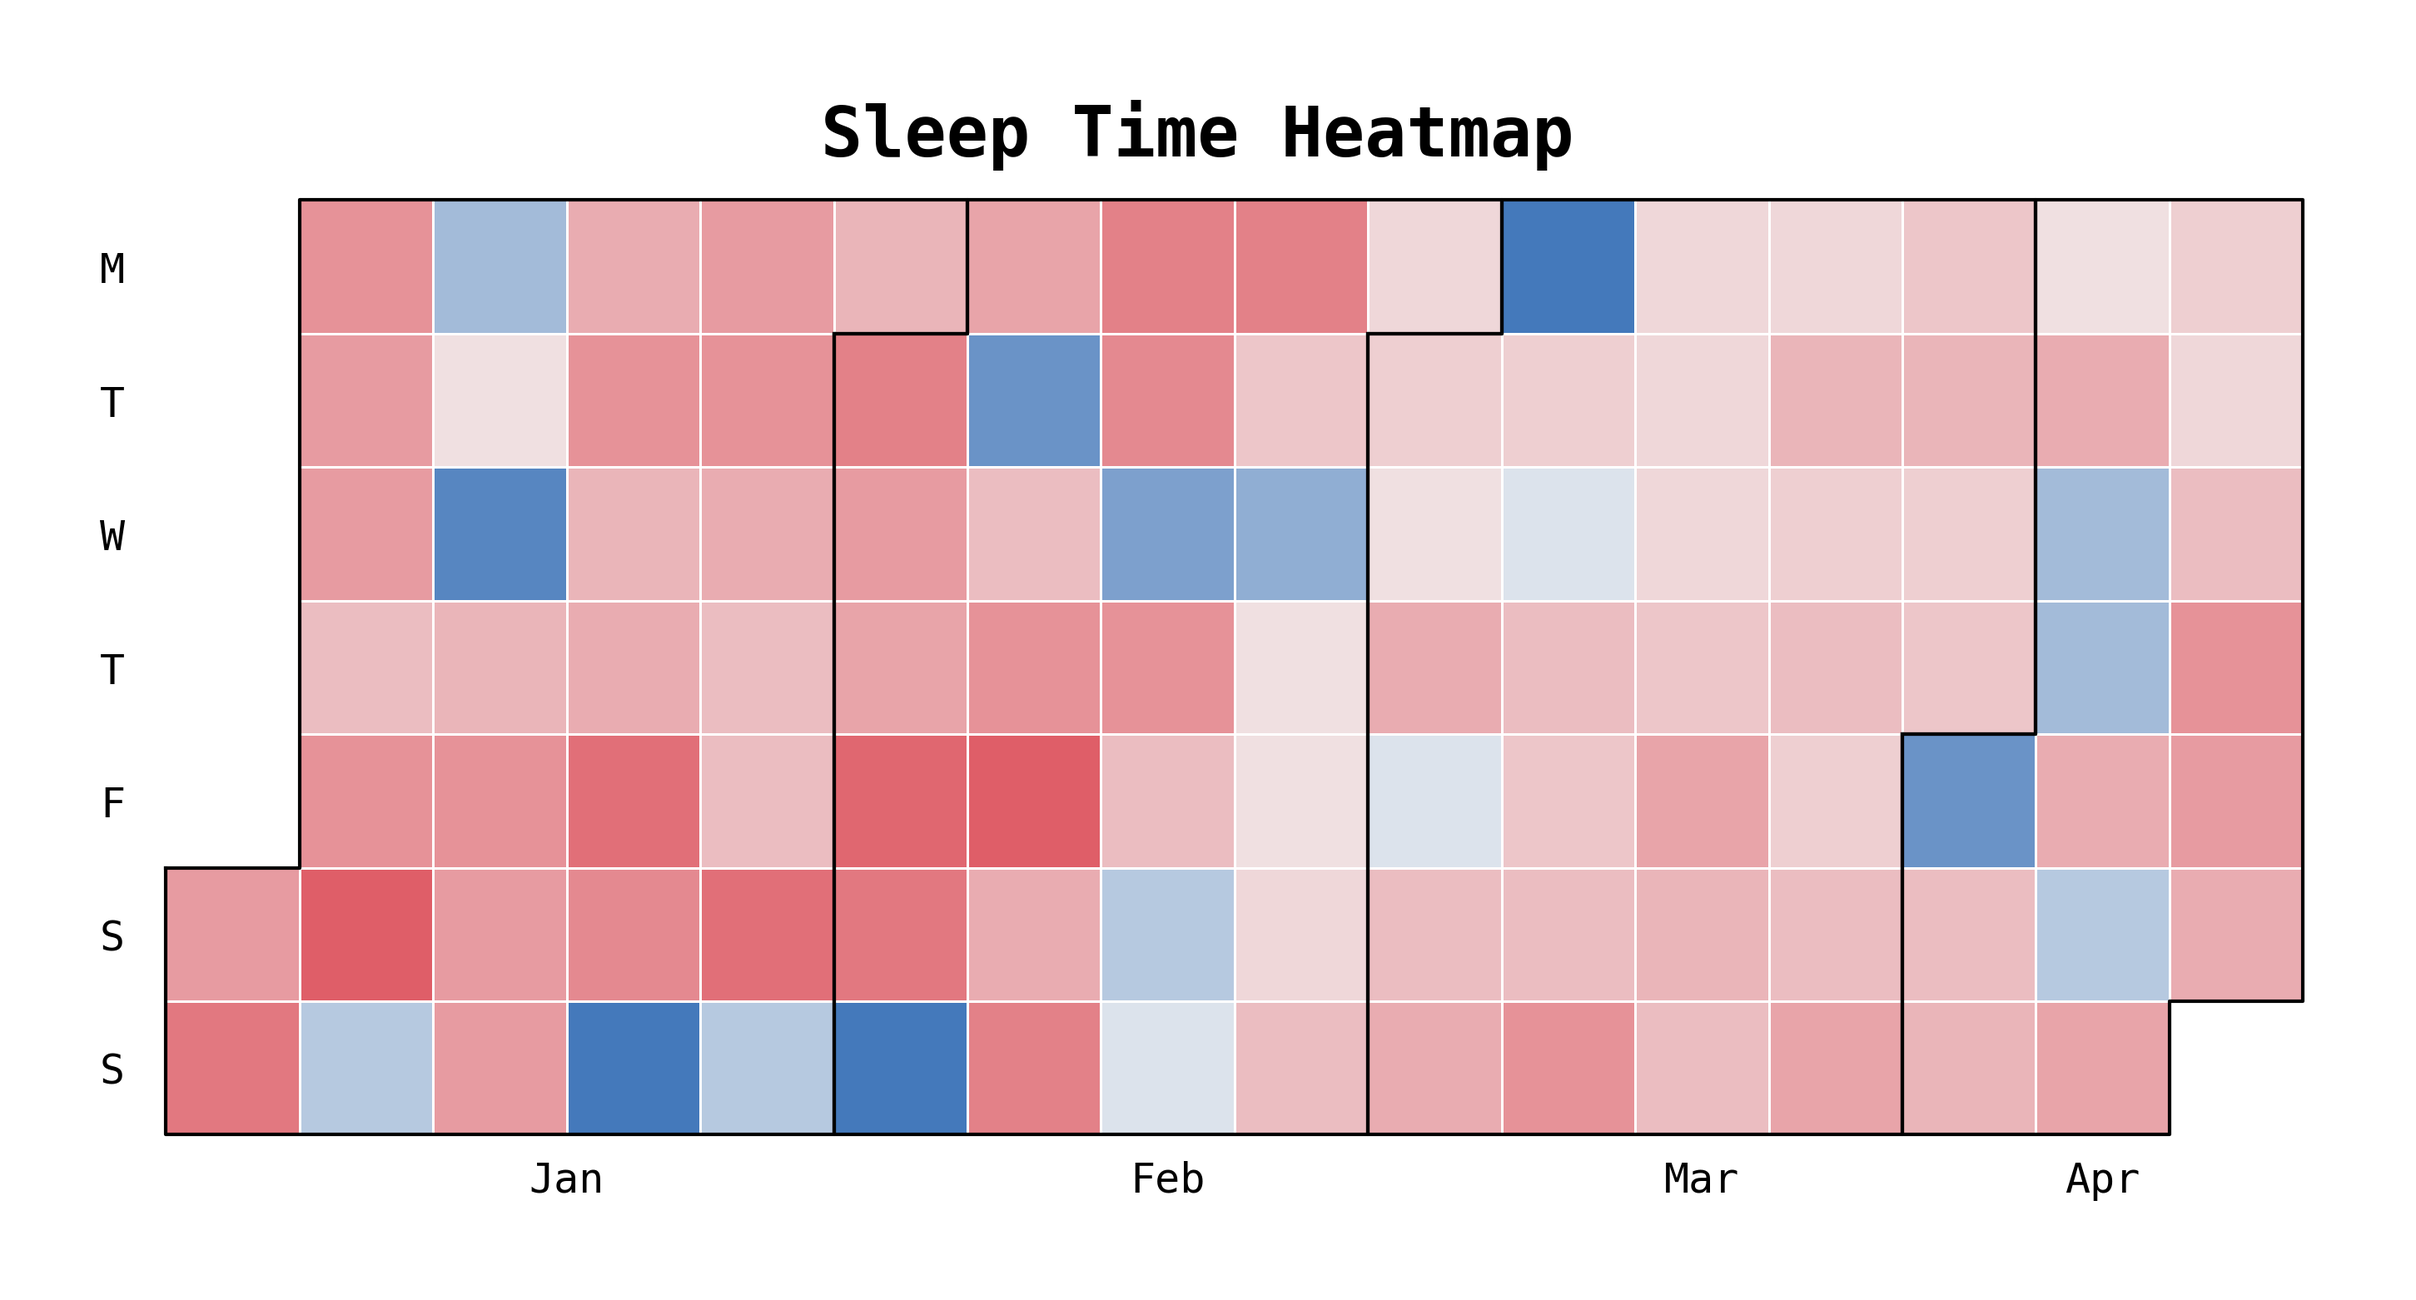
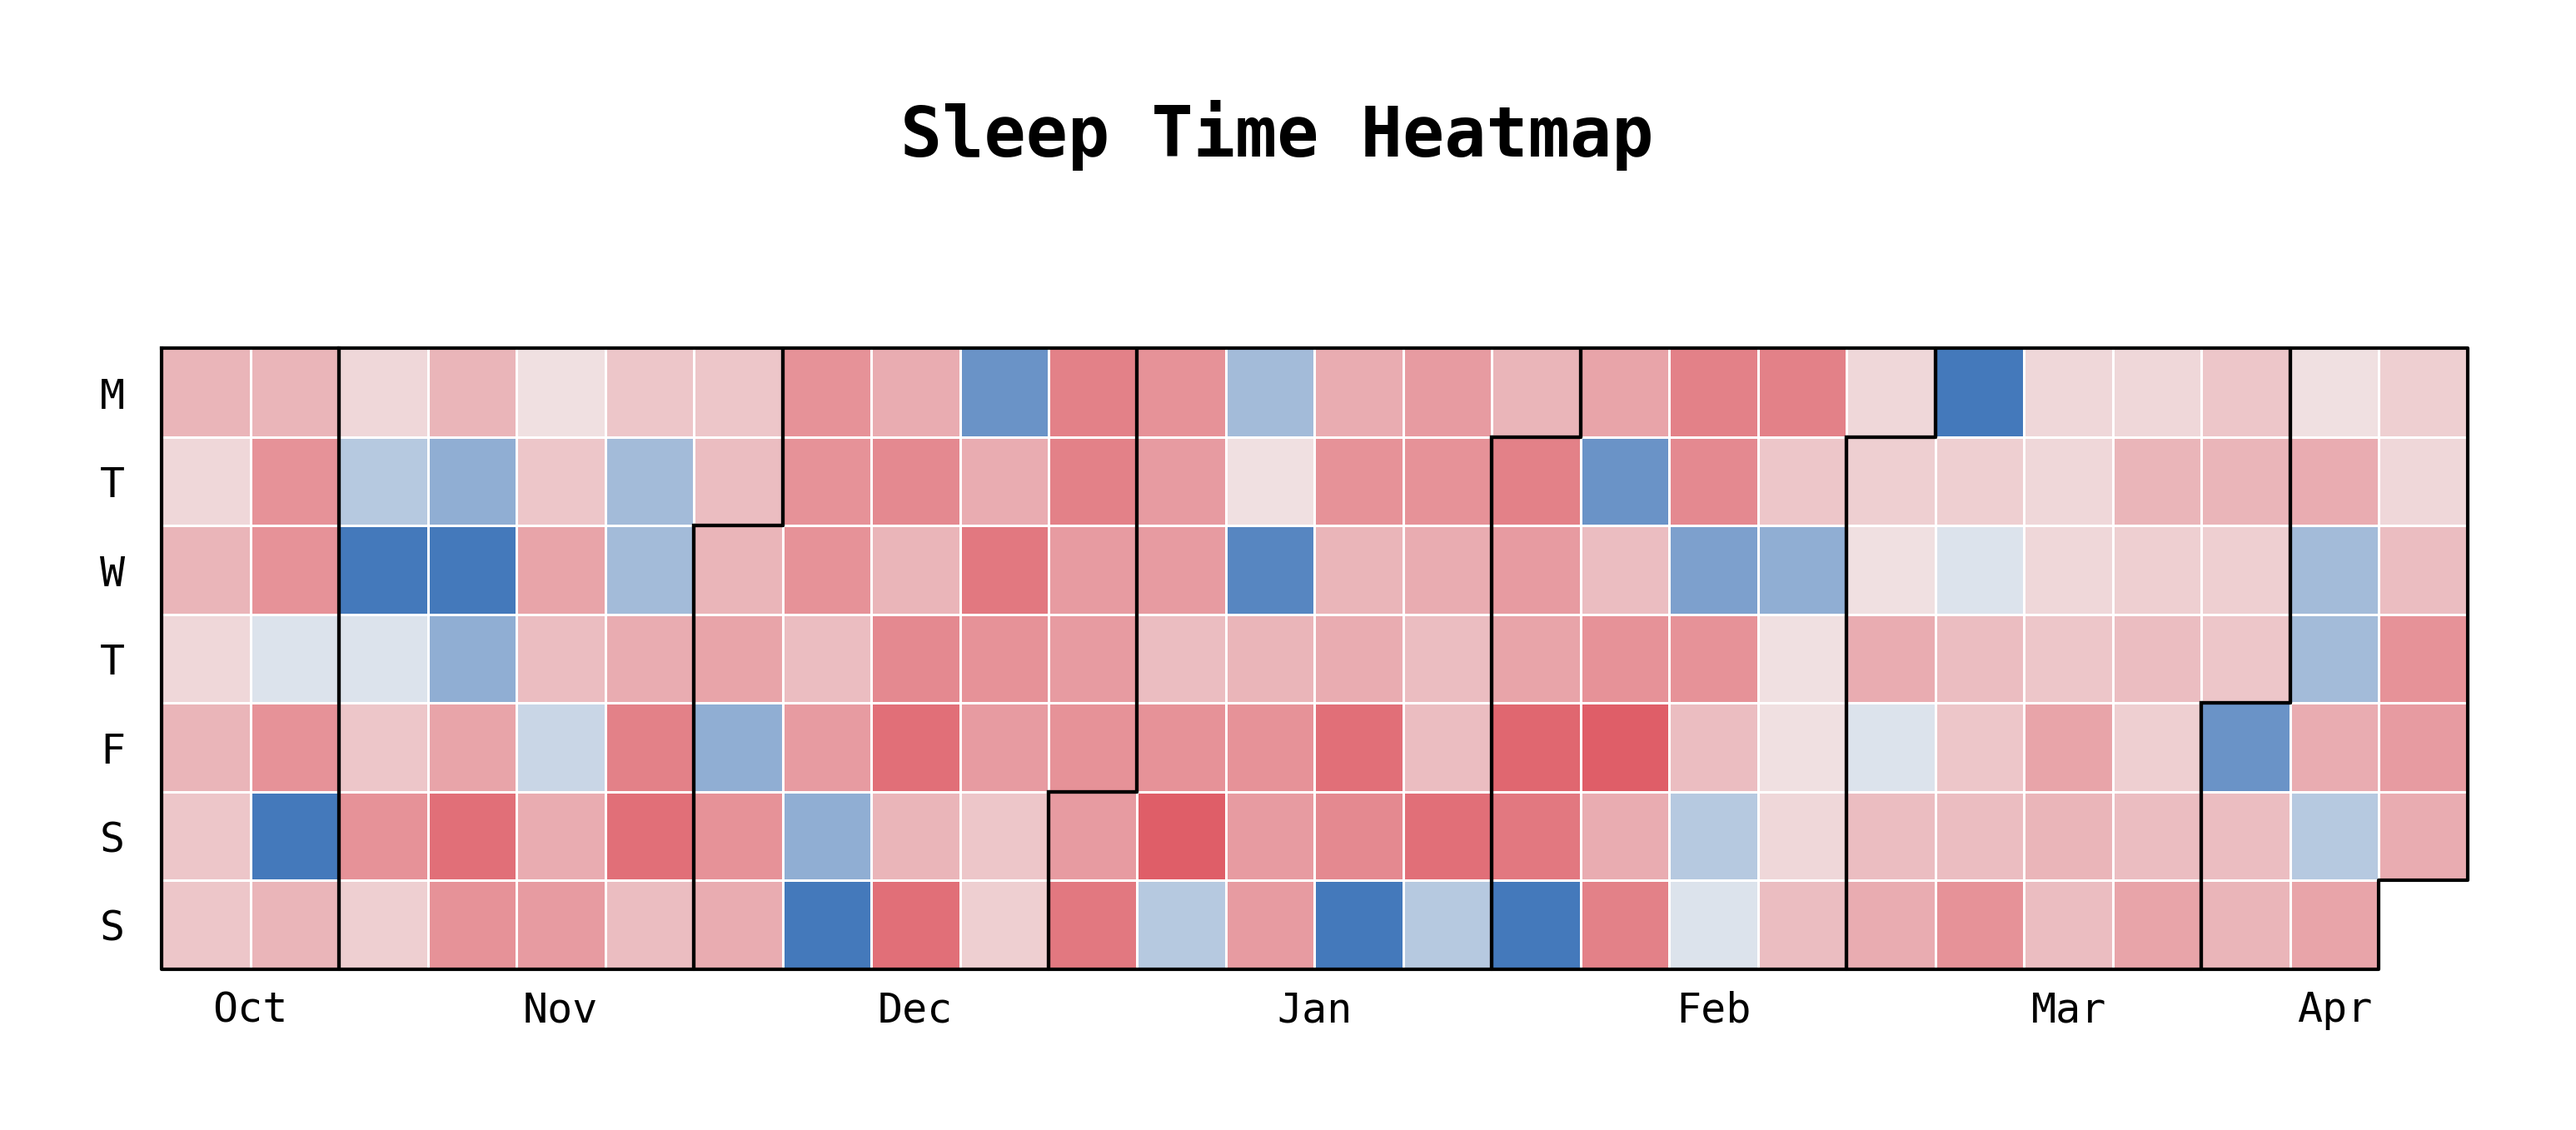
Show recent 6 months

diff --git a/sleepheatmap.py b/sleepheatmap.py
@@ -15,6 +15,9 @@ sleep_df['sleepdatetime'] = pd.to_datetime(sleep_df['Date'] + ' ' + sleep_df['Sl
 sleep_df['sleepdate'] = sleep_df.sleepdatetime + timedelta(days = 1)
 sleep_df.loc[sleep_df.sleepdatetime.dt.hour > 7, 'sleepdate'] = sleep_df.sleepdatetime
 
+# filter for recent 6 months
+sleep_df = sleep_df[sleep_df.sleepdate > pd.Timestamp.now() - pd.DateOffset(months=6)]
+
 ## CUSTOM FIELD ##
 # set sleep target time, e.g. 00:30:00
 sleep_df['target'] = pd.to_datetime(sleep_df['Date'] + ' ' + '00:30:00') + timedelta(days = 1)
